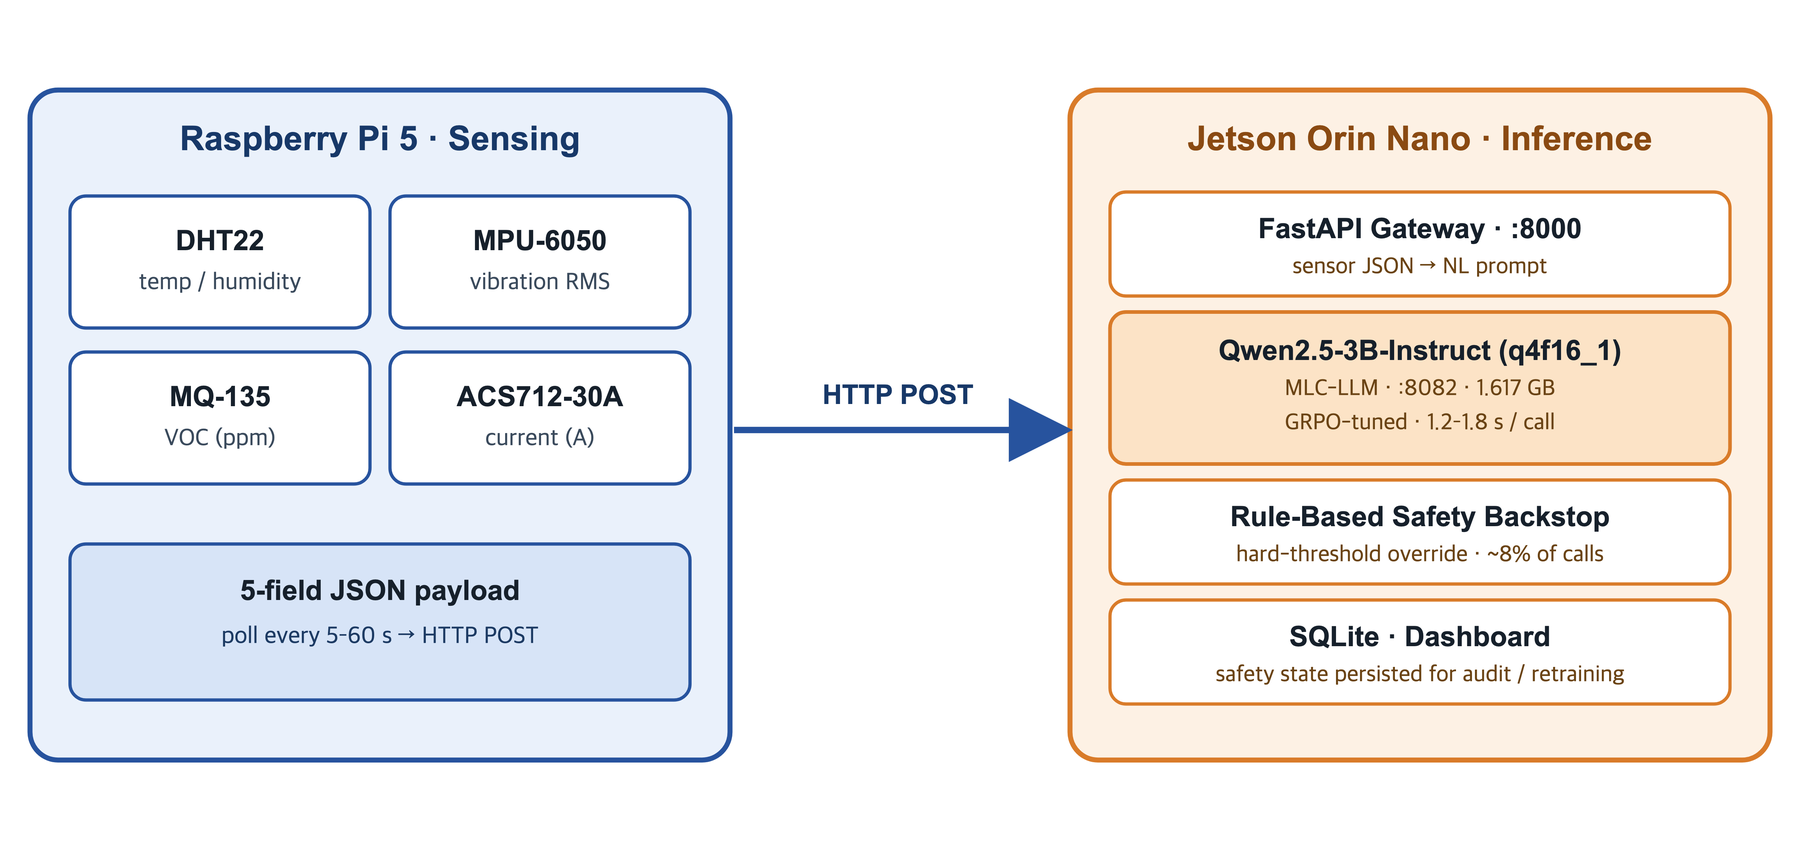
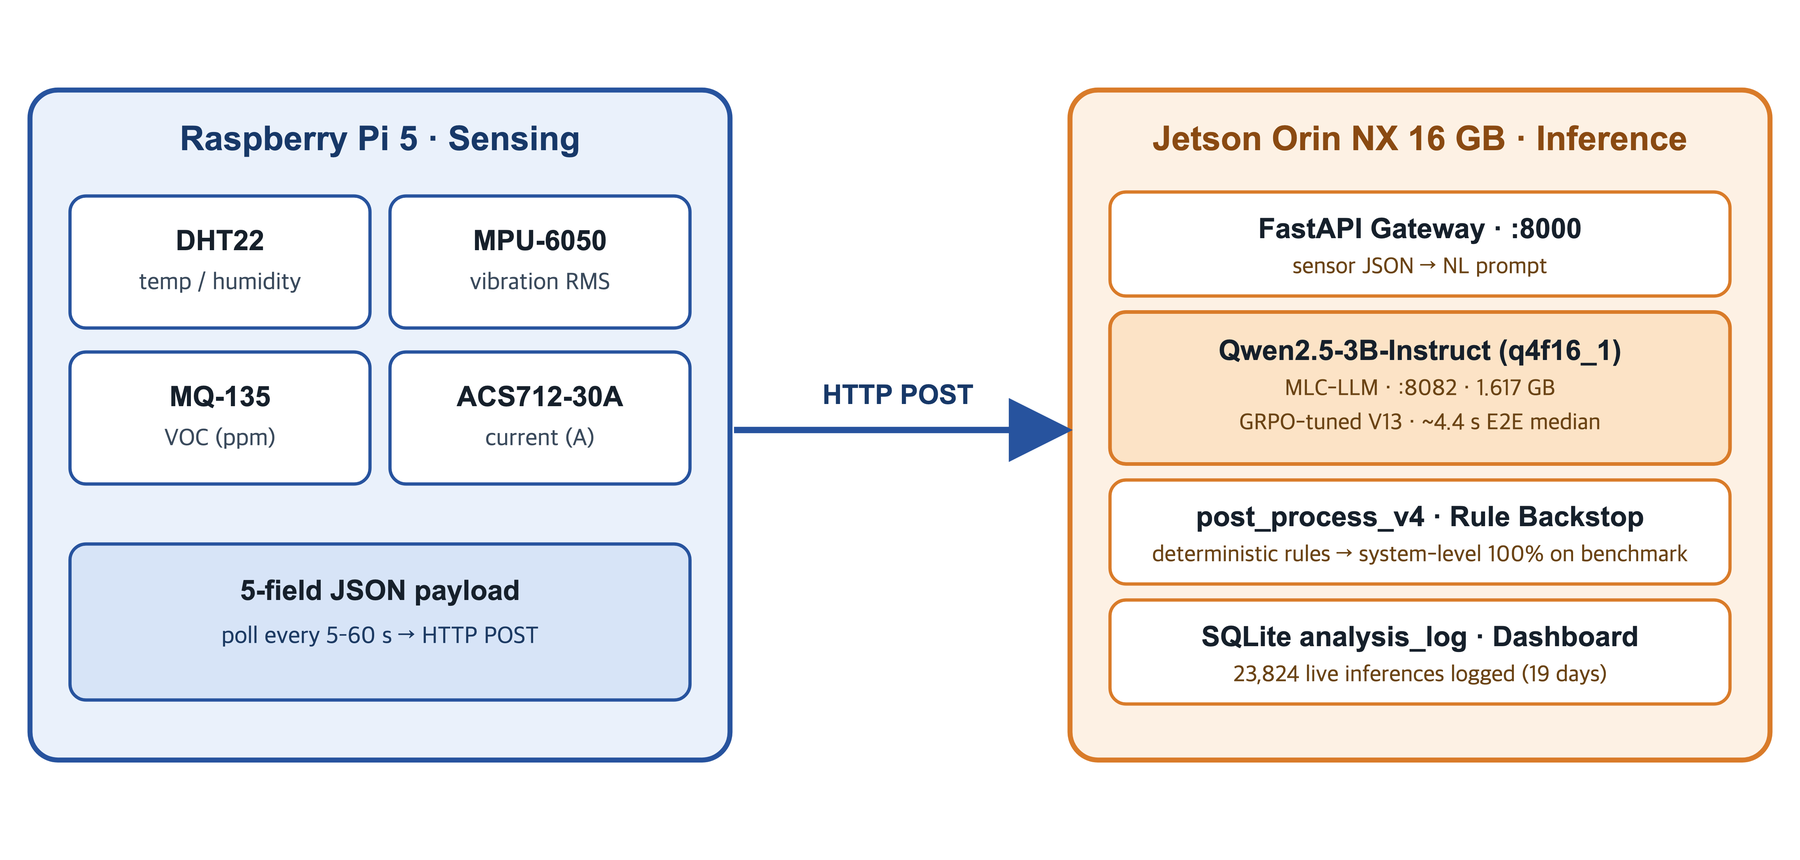
Record verified measurements: Orin NX 16GB, real version history (V7–V14), 19-day production stats
- Hardware corrected to Jetson Orin NX 16 GB (verified on-device: /proc/device-tree/model, L4T R36.4.3)
- Version table now follows the lab's MODEL_HISTORY.md: DPO 21% → SFT regressions (9–12%) → GRPO 18% → 63%
- Live deployment stats from on-device SQLite analysis_log: 23,824 inferences / 19 days, median 4.4 s E2E,
  mode agreement 36–51% under heat-skewed distribution, backstop correction 83–97%
- Real action space and thresholds from compare_v8.py (33-case benchmark)
- V13 training details (LR 2e-5, num_generations=4, mcl=80, cosine, 6h52m on L40) and V13 failure breakdown
- Regenerated version-history chart and architecture figure accordingly

diff --git a/README.md b/README.md
@@ -3,25 +3,57 @@
 > **MIRU 2026 · Track B (Poster)** — The 29th Meeting on Image Recognition and Understanding, Nagasaki, Japan, Aug 3–6, 2026
 > YoungWook Park · Siah Kim · Zepa Yang — Dept. of Computer Science & Engineering, Soonchunhyang University · Efficient Computing Lab
 
-A fully on-premises pipeline that puts a **GRPO fine-tuned Qwen2.5-3B** on a **Jetson Orin Nano (8 GB)** to read four heterogeneous sensor streams in natural language and output a three-class safety state — `steady / monitoring / emergency` — in **2.3 s median end-to-end**, with no cloud dependency.
+A fully on-premises pipeline: a **GRPO fine-tuned Qwen2.5-3B** running on a **Jetson Orin NX (16 GB)** reads four heterogeneous sensor streams in natural language and outputs a structured safety judgment — `{mode, action, level, reason}` — which a deterministic rule layer (`post_process_v4`) then verifies. No cloud dependency; every inference is logged to SQLite on-device.
+
+All numbers below come from the lab's version-history record (`MODEL_HISTORY.md`) and the on-device production database, re-verified directly on the running system on 2026-07-26.
 
 <p align="center">
   <img src="assets/poster_preview.png" width="640" alt="MIRU 2026 poster preview">
 </p>
 
-## Highlights
+## Measured results
 
-| Metric | Value | Eval cohort |
+| Metric | Value | Source / cohort |
 |---|---|---|
-| LLM-only accuracy (deployed V13) | **63%** (21/33) | held-out benchmark, disjoint from training |
-| System-level accuracy (LLM + rule backstop) | **100%** | same benchmark, after backstop (~8% overrides) |
+| LLM-only accuracy (deployed V13) | **63%** (21/33) | fixed 33-case benchmark (`compare_v8.py`), disjoint from training |
+| System-level accuracy (LLM + rule backstop) | **100%** | same benchmark, after `post_process_v4` |
 | Quantization cost (fp16 → q4f16_1) | **−6 pp** (39% → 33%) | controlled pair: same V14 checkpoint, same benchmark |
-| Compression | **3.8×** (6.2 GB → 1.617 GB) | fits Jetson Orin Nano 8 GB unified memory |
-| End-to-end latency | **2.3 s median** (5 s SLA) | 100-trial live run |
+| Model footprint | **1.617 GB** (q4f16_1, MLC) | vs ~6.2 GB fp16 — 3.8× compression |
+| Live deployment | **23,824 inferences / 19 days** | production DB (`analysis_log`), 2026-05-23 → 06-11 |
+| End-to-end latency (live) | **median 4.4 s** · avg 4.9 s · p95 7.5 s | measured per-inference in the production DB |
 
-## Why an LLM, not another threshold controller?
+## The training journey (this is the interesting part)
 
-Single-value thresholds or pattern-based control curves can only switch a cleansing process on/off — they cannot reason about what that intervention does to the *other* modalities. Here the LLM judges all four sensor streams **jointly**, so the effect of an evacuation/cleansing action (e.g., ventilation lowering VOC while shifting temperature and humidity) can enter the safety judgment itself. This deployment is a pilot of **system homeostasis maintenance**, not a threshold replacement.
+<p align="center">
+  <img src="assets/version_history.png" width="820" alt="Version history on the fixed 33-case benchmark">
+</p>
+
+Seven model versions, three training paradigms, one clear lesson:
+
+| Ver. | Method | Data | LLM-only | System | Note |
+|---|---|---|---|---|---|
+| V8 | DPO (on V7 SFT) | – | 21% (7/33) | 100% | best pre-GRPO |
+| V9 | SFT from scratch | 5,000 | 9% | 100% | regression |
+| V10 | CoT SFT (LR 5e-7) | 5,000 | 9% | 100% | CoT didn't help |
+| V11 | Direct-JSON SFT (LR 2e-6) | 5,000 | 12% | 96% | SFT ceiling confirmed |
+| V12 | GRPO, 500 samples (from V8 LoRA) | 500 | 18% | 100% | signal confirmed |
+| **V13** | **GRPO, 5,000 balanced (from V12 LoRA)** | 5,000 | **63% (21/33)** | **100%** | **deployed** |
+| V14 | GRPO + asymmetric reward shaping (from base) | 6,000 | 39% fp16 / 33% q4 | 100% | mode collapse — discarded |
+
+- **Why SFT failed (V9–V11)**: token-level cross-entropy weights every token equally — strong at learning explanation prose, weak at the single `action` token that actually matters. Few-shot examples in the system prompt didn't help either (V11).
+- **Why GRPO worked**: the reward hits the action decision directly (+1.0 correct, −1.0 wrong, −2.0 malformed JSON). V13 training: LR 2e-5, 1 epoch, num_generations=4, max_completion_length=80, cosine scheduler — **6 h 52 m on a single NVIDIA L40** (~5 s/step), a 3× jump over the previous best.
+- **V14 mode collapse**: to fix V13's caution-overprediction (5 of its 12 failures), the wrong-`caution` penalty was raised to −1.5 while others stayed at −1.0. The policy escaped to the lowest-penalty answer instead: **21 of 22 failures answered `none`** — including obvious emergencies (current 1.8 A, VOC 1200). GRPO's group-relative baseline accelerates this drift. **Keep reward magnitudes symmetric; fix class imbalance in the data, not the reward.**
+- V14 was salvaged as a **controlled quantization benchmark**: same checkpoint, same 33 cases — fp16 39% vs q4f16_1 33% = a measured −6 pp quantization tax.
+
+## What the model actually decides
+
+Output is a JSON judgment over five sensor values (temperature, humidity, VOC, current, vibration RMS):
+
+- **steady** → `none` · `open_window` (26–28 °C) · `close_window` (<15 °C) · `air_purifier_on` (VOC 400–700) · `dehumidifier_on` (humidity >75%)
+- **monitoring** → `caution` (28–30 °C, current 1.3–1.7 A, vibration 0.05–0.08 g, VOC 700–1,000)
+- **emergency** → `overheat` (>30 °C) · `electrical` (>1.7 A) · `vibration` (>0.08 g) · `air_quality` (VOC >1,000)
+
+The 33-case benchmark covers every action class plus exact boundary values (26.0 °C, 30.0 °C, 1.3 A, 0.05 g, …).
 
 ## System architecture
 
@@ -29,33 +61,26 @@ Single-value thresholds or pattern-based control curves can only switch a cleans
   <img src="assets/system_architecture.png" width="820" alt="4-stage pipeline">
 </p>
 
-1. **Sensor acquisition** — Raspberry Pi 5 polls DHT22 (temp/humidity), MPU-6050 (vibration RMS), MQ-135 (VOC), ACS712-30A (current) and posts one 5-field JSON payload per cycle.
-2. **Inference gateway** — FastAPI on Jetson bridges sensor JSON into the model's prompt distribution.
-3. **LLM inference** — Qwen2.5-3B-Instruct, GRPO fine-tuned, compiled to q4f16_1 (1.617 GB) via MLC-LLM/Apache TVM, 1.2–1.8 s per call on the Jetson GPU.
-4. **Rule-based safety backstop** — four hard thresholds (temp>80 °C, current>25 A, vibration>2.5 g, VOC>500 ppm) enforced over any LLM output; results persisted to SQLite for audit/retraining.
+1. **Sensor acquisition** — Raspberry Pi 5 polls DHT22 (temp/humidity), MPU-6050 (vibration RMS), MQ-135 (VOC), ACS712-30A (current); one 5-field JSON payload per cycle.
+2. **Inference gateway** — FastAPI on the Jetson turns sensor JSON into the model's prompt.
+3. **LLM inference** — Qwen2.5-3B-Instruct (GRPO V13), compiled to q4f16_1 via MLC-LLM / Apache TVM; served on-device (JetPack L4T R36.4.3). V12 weights kept alongside for rollback.
+4. **Rule backstop + logging** — `post_process_v4` applies deterministic threshold rules over the LLM output; every inference (raw LLM output, final output, corrections, latency) is persisted to SQLite `analysis_log`.
 
-## GRPO training curriculum (V8 → V14)
+## What 19 days of live deployment taught us
 
-<p align="center">
-  <img src="assets/grpo_curriculum.png" width="820" alt="Sequential improvement across the GRPO curriculum">
-</p>
+The production log is blunter than the benchmark: during a heat-skewed summer period (11,187 of 23,824 records ended `emergency`), the LLM's mode agreed with the final post-processed mode only **~36–51%** of the time, and the backstop corrected some field of the output in **83–97%** of records.
 
-- Synthetic training scenarios spanning 3 modes and 4 emergency subtypes, augmented per version (200 → 2,000 samples) — bars show **sequential curriculum improvement**, not a same-scope comparison.
-- Reward: +1.0 correct mode, −1.0 wrong mode, −2.0 malformed JSON (TRL v0.13, single NVIDIA L40).
-- **V14 mode collapse**: escalating one wrong-class penalty to −1.5 (asymmetric reward shaping) collapsed 21/22 failures into a single low-penalty class (33%). Lesson: **keep GRPO reward magnitudes symmetric across error types — fix class imbalance in the data, not the reward.**
-- V14 doubled as a **controlled quantization benchmark**: same checkpoint, same benchmark, fp16 39% → q4f16_1 33% = a measured −6 pp deployment tax for 3.8× compression.
-
-## Per-class behavior (deployed V13, q4f16_1)
-
-| Class | Precision | Recall | Notes |
-|---|---|---|---|
-| steady | 0.81 | 0.74 | most distinctive sensor profile |
-| monitoring | 0.41 | 0.53 | ambiguous boundary with steady |
-| emergency | 0.72 | 0.78 | hard thresholds aid detection |
+That gap between the balanced benchmark (63%) and the shifted live distribution is exactly why the architecture splits roles: the **LLM provides the judgment and human-readable reasoning; the deterministic layer owns the final safety decision.** At this model scale, the backstop is not a fallback — it is a required component, and the per-inference log is the audit trail that proves it.
 
 ## Stack
 
-`Raspberry Pi 5` · `Jetson Orin Nano 8 GB` · `Qwen2.5-3B-Instruct` · `GRPO (TRL)` · `MLC-LLM / Apache TVM (q4f16_1)` · `FastAPI` · `SQLite`
+`Raspberry Pi 5` · `Jetson Orin NX 16 GB (JetPack / L4T R36.4.3)` · `Qwen2.5-3B-Instruct` · `GRPO (TRL)` · `LoRA` · `MLC-LLM / Apache TVM (q4f16_1)` · `FastAPI` · `SQLite` · trained on `NVIDIA L40`
+
+## Engineering notes (hard-won)
+
+- MLC weight conversion: sharded HF checkpoints must be passed as a directory — concatenating shards corrupts the model.
+- MLC on Jetson Docker needs `--runtime nvidia` (not `--gpus all`), and `gen_config` requires an explicit `--conv-template qwen2`.
+- Prompt language (Korean vs English) had no measurable latency effect on this pipeline — the levers that matter are model size, quantization, and output length.
 
 ## Publication
 
@@ -64,4 +89,4 @@ The extended abstract is not redistributed here in accordance with MIRU's confid
 
 ## Limitations & next steps
 
-37% LLM-only error rate (backstop-dependent for safety-critical use), synthetic-only training data, stateless inference. Next: sliding-window sensor history in-prompt, larger 7B quantized bases, and closing the homeostasis loop with actuation feedback.
+A 3B q4 model tops out near ~63% on this rule-set (quantization −6 pp, capacity ceiling, boundary-value confusion, cross-sensor dimension mix-ups); synthetic-only training data; stateless inference. Next: sliding-window sensor history in-prompt, positive-reward-weighted GRPO instead of penalties, constrained decoding for the action token, and larger quantized bases.

diff --git a/docs/PORTFOLIO_KO.md b/docs/PORTFOLIO_KO.md
@@ -2,43 +2,54 @@
 
 > MIRU 2026 (제29회 화상인식·이해 심포지엄, 나가사키) Track B 포스터 발표 프로젝트.
 > YoungWook Park · Siah Kim · Zepa Yang — 순천향대학교 컴퓨터공학과 · Efficient Computing Lab
+> 모든 수치는 연구실 버전 기록(`MODEL_HISTORY.md`)과 온디바이스 운영 DB에서 2026-07-26 재검증한 실측값이다.
 
 ## 한 줄 요약
 
-Raspberry Pi 5가 수집한 4종 센서 데이터를 Jetson Orin Nano 위의 GRPO 파인튜닝 LLM(Qwen2.5-3B, 4bit 양자화)이 실시간 해석해 3단계 안전 상태(steady/monitoring/emergency)를 판정하는, 클라우드 없는 엣지 완결형 모니터링 파이프라인.
+Raspberry Pi 5가 수집한 4종 센서 데이터를 **Jetson Orin NX(16GB)** 위의 GRPO 파인튜닝 LLM(Qwen2.5-3B, q4f16_1 1.617GB)이 해석해 `{mode, action, level, reason}` JSON 판정을 내리고, 결정론적 규칙 레이어(post_process_v4)가 최종 안전 결정을 담당하는 엣지 완결형 모니터링 파이프라인.
 
-## 문제 정의
+## 실측 결과 요약
 
-기존 IoT 모니터링은 채널별 임계값 규칙에 의존한다. 이 방식은 센서 간 교차 상호작용(전류·온도 동시 상승은 각각의 상승과 다른 위험 신호)을 포착하지 못하고, 새 이상 유형마다 규칙을 다시 짜야 한다. 이 프로젝트는 LLM의 자연어 추론으로 다중 센서를 통합 판단하되, 8GB 엣지 디바이스 안에서 완결되도록 만들었다.
+- **벤치마크(33케이스 고정, 학습 미사용)**: 배포 모델 V13 LLM 단독 **63% (21/33)**, 규칙 백스탑 결합 시 **시스템 레벨 100%**
+- **양자화 비용(통제 비교)**: 동일 V14 체크포인트·동일 벤치마크에서 fp16 39% → q4f16_1 33% = **−6%p**, 대신 3.8× 압축
+- **실운영**: 19일간(2026-05-23~06-11) **23,824회 추론** 기록, end-to-end 지연 **중앙값 4.4초**(평균 4.9초, p95 7.5초)
 
-단순 on-off 제어기가 목적이 아니다 — 정화(cleansing)/배기(evacuation) 개입이 다른 모달리티에 미치는 효과까지 판단에 반영하는 **시스템 항상성(homeostasis) 유지의 파일럿**이 이 시스템의 지향점이다.
+## 판정 공간 (실제 규칙)
 
-## 시스템 구성 (4단계)
+5개 센서값(온도/습도/VOC/전류/진동 RMS)에 대해:
 
-1. **센서 수집** — Raspberry Pi 5: DHT22(온습도), MPU-6050(진동 RMS), MQ-135(VOC), ACS712-30A(전류) → 5필드 JSON
-2. **추론 게이트웨이** — Jetson 위 FastAPI가 센서 JSON을 자연어 프롬프트로 변환
-3. **LLM 추론** — Qwen2.5-3B-Instruct를 MLC-LLM(Apache TVM)으로 q4f16_1 컴파일(1.617GB), 호출당 1.2–1.8초
-4. **규칙 기반 안전 백스탑** — 4개 하드 임계값(온도>80°C, 전류>25A, 진동>2.5g, VOC>500ppm)을 LLM 출력과 무관하게 강제, SQLite에 기록
+- **steady**: `none` · `open_window`(26–28°C) · `close_window`(<15°C) · `air_purifier_on`(VOC 400–700) · `dehumidifier_on`(습도>75%)
+- **monitoring**: `caution` (28–30°C, 전류 1.3–1.7A, 진동 0.05–0.08g, VOC 700–1,000)
+- **emergency**: `overheat`(>30°C) · `electrical`(>1.7A) · `vibration`(>0.08g) · `air_quality`(VOC>1,000)
 
-## 핵심 결과 (평가 코호트 명시)
+## 학습 여정 — SFT 실패에서 GRPO 돌파까지
 
-- **정확도**: 배포 모델 V13이 held-out 벤치마크(학습 미사용)에서 LLM 단독 63% (21/33). V8(31%)부터 데이터 증강 커리큘럼으로 순차 개선.
-- **시스템 레벨**: 규칙 백스탑 결합(추론의 ~8% 교정) 시 동일 벤치마크 100%.
-- **양자화 비용**: 동일 체크포인트·동일 벤치마크 통제 비교(V14)로 fp16 39% → q4f16_1 33% = **−6%p**, 대신 3.8× 압축(6.2→1.617GB)으로 8GB 메모리 제약 충족.
-- **지연**: 실측 100회 기준 end-to-end 중앙값 2.3초 (SLA 5초).
+| 버전 | 방법 | 데이터 | LLM 단독 | 시스템 | 비고 |
+|---|---|---|---|---|---|
+| V8 | DPO (V7 SFT 기반) | – | 21% (7/33) | 100% | GRPO 이전 최고 |
+| V9 | SFT from scratch | 5,000 | 9% | 100% | 퇴보 |
+| V10 | CoT SFT (LR 5e-7) | 5,000 | 9% | 100% | CoT 효과 없음 |
+| V11 | Direct-JSON SFT (LR 2e-6) | 5,000 | 12% | 96% | SFT 한계 확인 (few-shot도 무효) |
+| V12 | GRPO 500샘플 (V8 LoRA 기반) | 500 | 18% | 100% | GRPO 신호 확인 |
+| **V13** | **GRPO 5,000 균형샘플 (V12 LoRA 기반)** | 5,000 | **63%** | **100%** | **배포** |
+| V14 | GRPO 6,000 + 비대칭 reward shaping | 6,000 | fp16 39% / q4 33% | 100% | mode collapse — 폐기 |
 
-## 실패에서 얻은 것 — V14 mode collapse
+- **SFT가 실패한 이유**: token-level loss가 모든 토큰에 동일 가중치를 줘서 설명문 학습에는 강하지만 정작 `action` 한 토큰의 결정에는 약하다. 분류/액션 결정에는 GRPO(정답 여부에 직접 보상)가 맞는 도구였다.
+- **V13 학습 상세**: LR 2e-5, 1 epoch, num_generations=4, max_completion_length=80, cosine 스케줄러 — NVIDIA L40 1장에서 **6시간 52분**(~5s/step). 보상 +1.0 정답 / −1.0 오답 / −2.0 JSON 파손.
+- **V13 실패 12건 분석**: caution 과잉 5건, 경계값 혼동 4건(28°C↔30°C), 센서 차원 혼동 1건(전류 2.5A→overheat), 인접 단계 혼동 2건.
+- **V14 mode collapse**: caution 과잉을 잡으려 wrong-caution 페널티만 −1.5로 올렸더니, 실패 22건 중 21건이 최저 페널티 답 `none`으로 도피 — 전류 1.8A, VOC 1200 같은 명백한 emergency까지 `none`. **교훈: GRPO 보상 크기는 대칭 유지, 클래스 불균형은 데이터 리샘플링으로.** 실패한 V14는 양자화 손실의 통제 비교쌍으로 재활용했다.
 
-monitoring 클래스 과잉 예측을 고치려고 해당 오답에만 페널티를 −1.0→−1.5로 키웠더니(비대칭 reward shaping), 모델이 페널티가 낮은 한 클래스로 도피 — 실패 22건 중 21건이 단일 클래스로 수렴하며 33%로 붕괴했다. GRPO는 그룹 상대 어드밴티지 기반이라 최저 페널티 클래스로의 수렴이 PPO보다 가속된다.
+## 19일 실운영이 가르쳐준 것
 
-**교훈: GRPO 보상 크기는 오류 유형 간 대칭으로 유지하고, 클래스 불균형은 보상이 아니라 데이터 리샘플링으로 잡는다.** 실패한 V14는 양자화 손실의 통제 비교쌍으로 재활용했다.
+여름 폭염으로 분포가 쏠린 실환경(23,824건 중 emergency 11,187건)에서 LLM 모드와 최종(백스탑 후) 모드의 일치율은 **약 36–51%**, 백스탑이 출력 일부를 교정한 비율은 **83–97%**였다. 균형 벤치마크(63%)와 실분포 사이의 이 간극이 바로 역할 분담 설계의 근거다 — **LLM은 판단과 사람이 읽을 이유(reason)를 만들고, 최종 안전 결정은 결정론적 레이어가 소유한다.** 이 스케일의 모델에서 백스탑은 예비장치가 아니라 필수 구성요소이며, 건별 로그(SQLite `analysis_log`)가 그것을 증명하는 감사 추적이다.
 
-## 배운 점
+## 엔지니어링 노트
 
-- 실패도 데이터다 — 실패 실험이 논문의 정량 근거(양자화 손실 측정)가 됐다.
-- 성능 수치는 반드시 평가 코호트(train/test/deploy)와 함께 보고해야 비교 가능성 논란을 피할 수 있다.
-- LLM 단독 정확도의 한계는 시스템 설계(규칙 백스탑)로 보완했다 — 모델 성능과 시스템 안전성은 별개 레이어다.
+- MLC 변환: HF sharded 체크포인트는 shard 단순 concat 시 깨짐 — 디렉토리째 전달해야 함
+- Jetson Docker에서 MLC는 `--gpus all`이 아니라 `--runtime nvidia`, `gen_config`에 `--conv-template qwen2` 필수
+- 프롬프트 언어(한/영)는 지연에 유의미한 차이 없음 (실측) — 성능 레버는 모델 크기·양자화·출력 길이
+- 롤백 대비: V12 q4 가중치를 배포 모델 옆에 보존
 
-## 향후 계획
+## 한계와 다음 단계
 
-프롬프트에 슬라이딩 윈도우 센서 이력 추가(시계열 문맥), 7B급 양자화 베이스 평가, 개입 효과 피드백 루프(항상성 유지 완성).
+3B q4 모델은 이 규칙 셋에서 ~63% 부근이 천장(양자화 −6%p + capacity + 경계값/차원 혼동). 합성 데이터 한계, 시계열 문맥 부재. 다음: 프롬프트에 슬라이딩 윈도우 이력, 페널티 대신 양수 보상 강화형 GRPO, action 토큰 constrained decoding, 더 큰 양자화 베이스.
